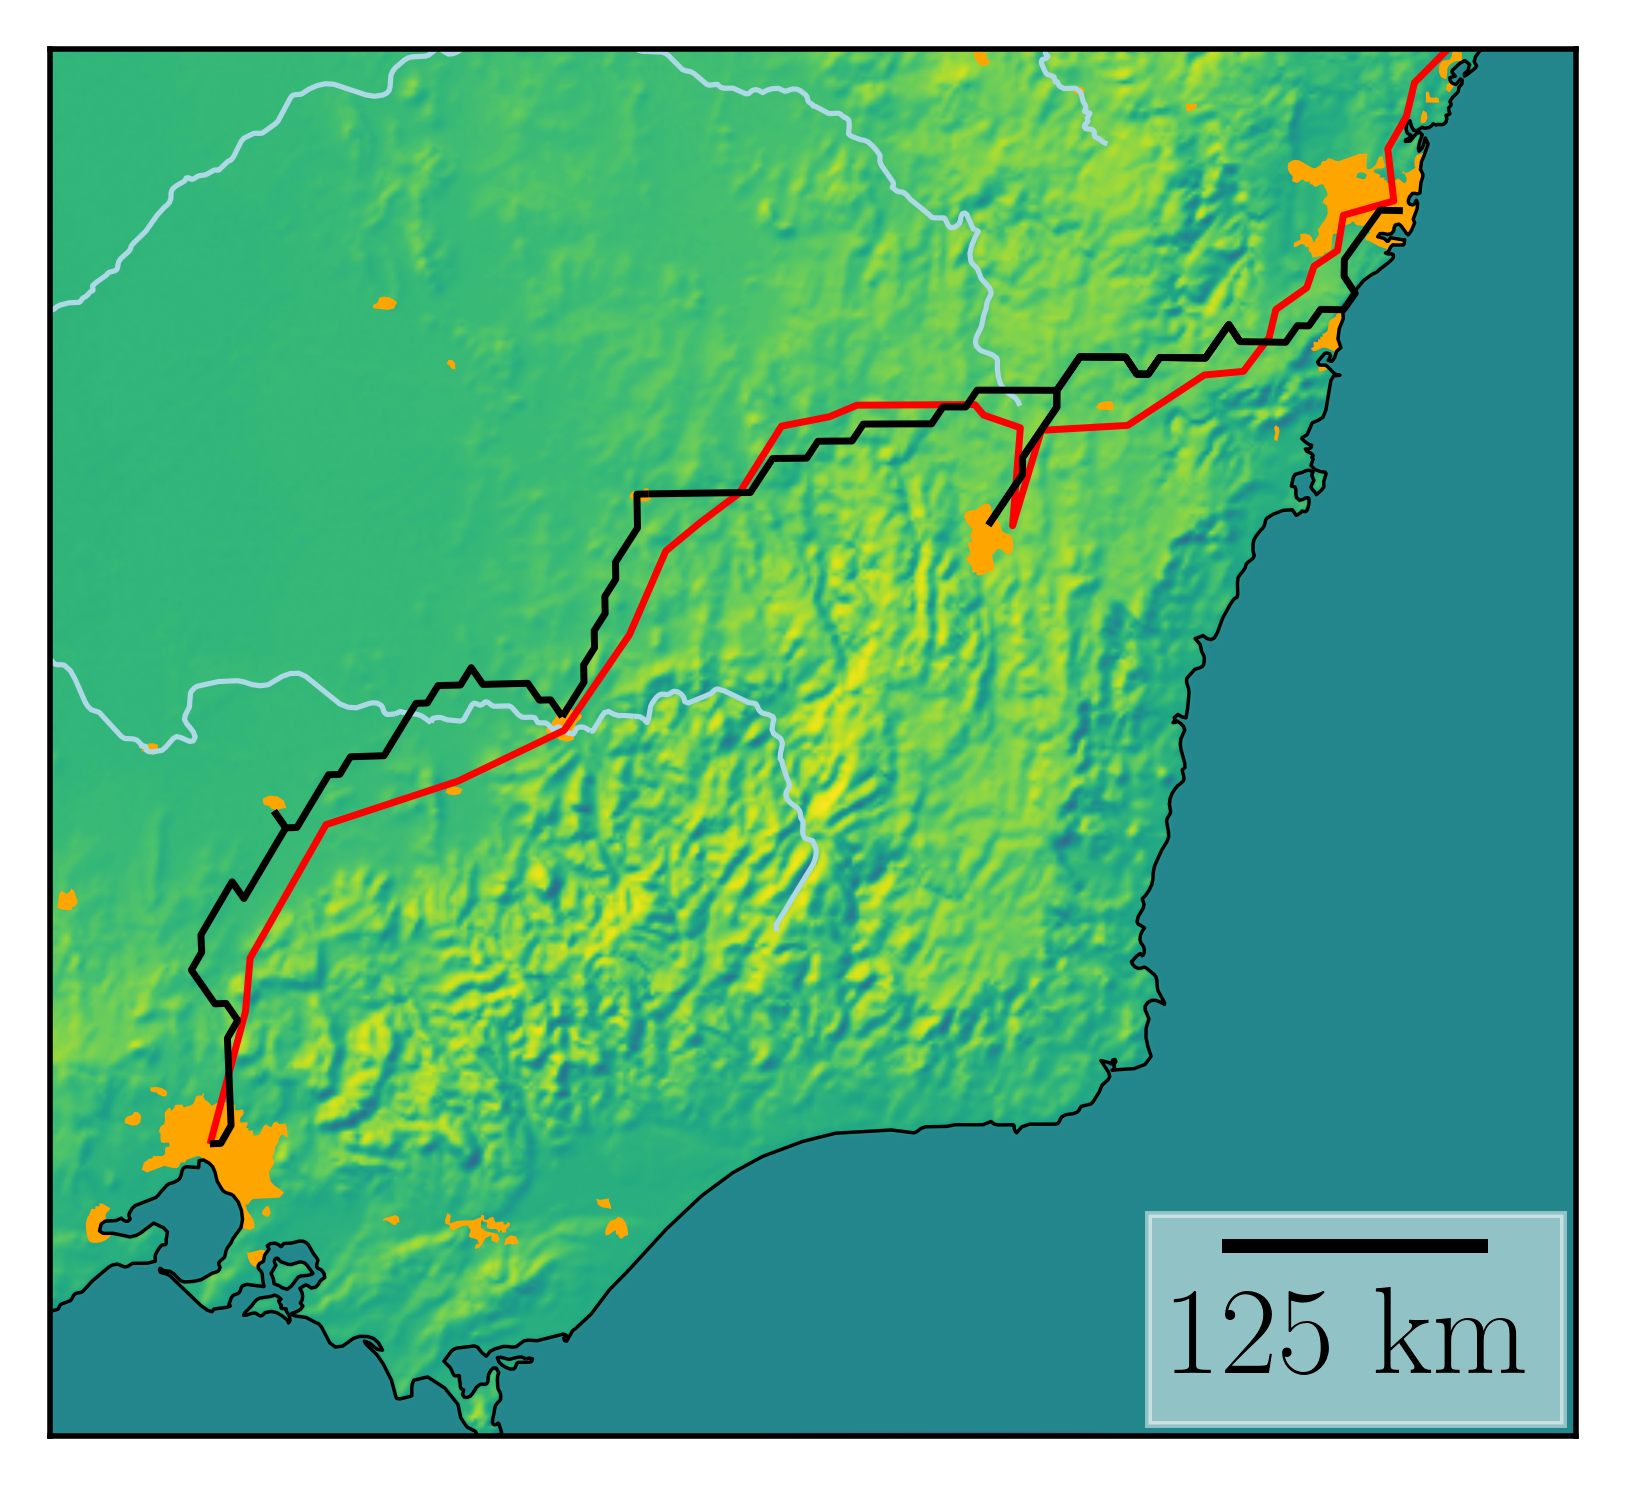
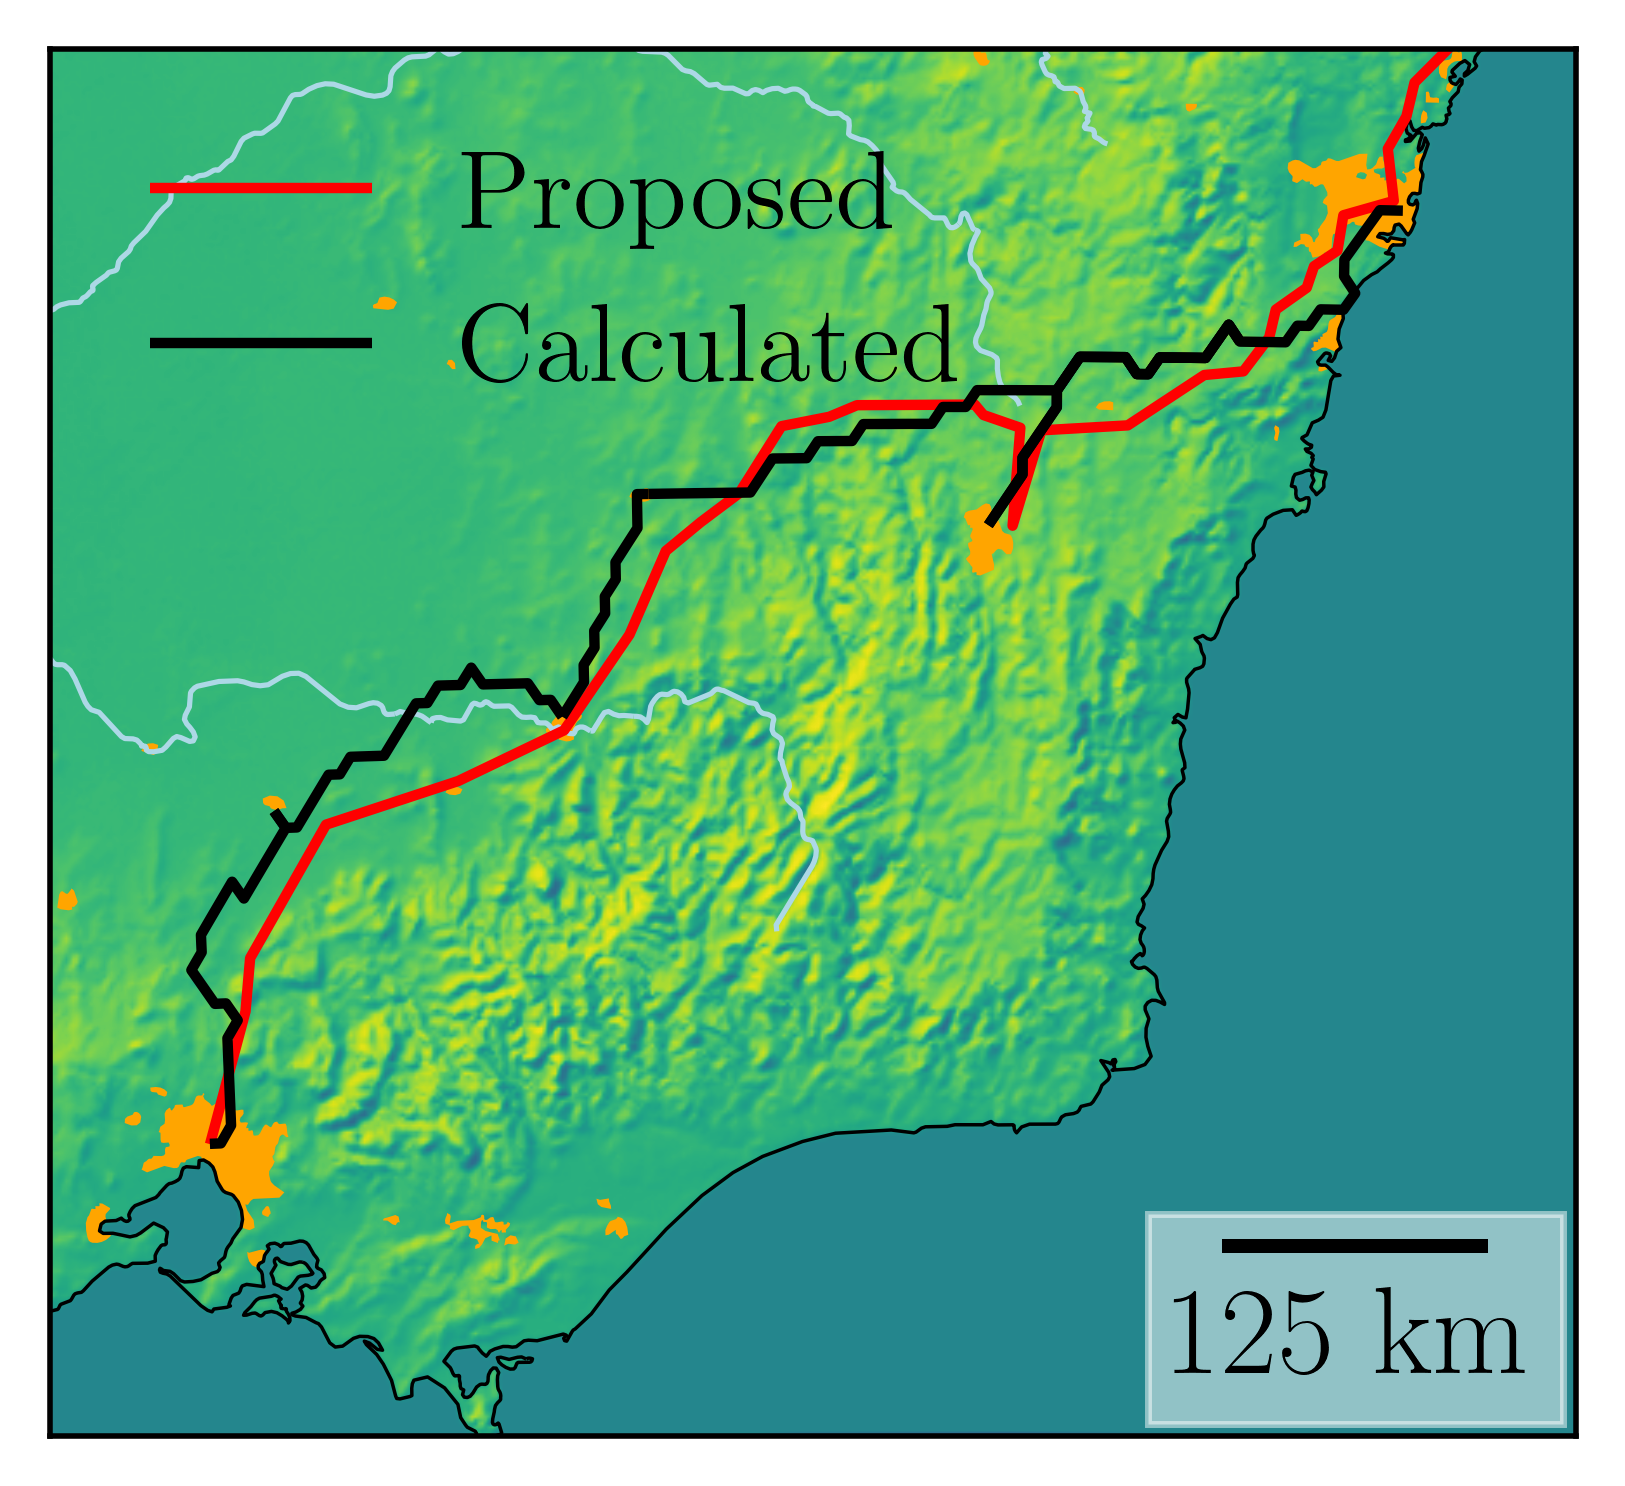
minor updates to figures

diff --git a/figures/benchmarking_data/adb_vs_flightradar.py b/figures/benchmarking_data/adb_vs_flightradar.py
@@ -55,6 +55,11 @@ df_fr = pd.read_excel(
 
 # DATA MANIPULATION #############################
 
+df_fr_pax_only = df_fr.copy()
+df_fr_pax_only['Flights'] = df_fr_pax_only['Flights'] - df_fr_pax_only['Flights'] * 0.1
+# https://www.eurocontrol.int/publication/eurocontrol-data-snapshot-all-cargo-flights-market-share
+# https://aviation.stackexchange.com/a/31988/
+
 # FIGURE ########################################
 
 # SETUP ######################
@@ -104,8 +109,8 @@ ax.set_ylabel("Global Air Traffic [\# of flights]")
 
 
 ax.plot(
-    df_air['DateTime'],
-    df_air['Flights'],
+    df_adb['DateTime'],
+    df_adb['Flights'],
     color = 'black',
     linestyle = '-',
     linewidth = 1,
@@ -117,7 +122,15 @@ ax.plot(
     color = 'blue',
     linestyle = '--',
     linewidth = 1,
-    label = 'FlightRadar24'
+    label = 'FlightRadar24 (pax + cargo + "some business")'
+)
+ax.plot(
+    df_fr_pax_only['DateTime'],
+    df_fr_pax_only['Flights'],
+    color = 'blue',
+    linestyle = '-.',
+    linewidth = 1,
+    label = 'FlightRadar24 (pax + "some business")'
 )
 
 # LEGEND ####################

diff --git a/figures/maps_case_study_routes/australia.py b/figures/maps_case_study_routes/australia.py
@@ -148,14 +148,16 @@ ax.set_yticklabels([])
 proposed_route.plot(
     ax = ax,
     color = 'red',
-    linewidth = 1,
+    linewidth = 1.5,
     alpha = 1,
+    label = 'Proposed'
 )
 calculated_route.plot(
     ax = ax,
     color = 'black',
-    linewidth = 1,
+    linewidth = 1.5,
     alpha = 1,
+    label = 'Calculated'
 )
 
 # MAP BACKGROUND #############
@@ -171,6 +173,12 @@ cx.add_basemap(
 # https://geopandas.org/en/stable/gallery/plotting_basemap_background.html#Adding-a-background-map-to-plots
 
 # LEGEND #####################
+
+ax.legend(
+    loc = 'upper left',
+    fontsize = 16,
+    frameon = False,
+)
 
 # https://github.com/ppinard/matplotlib-scalebar?tab=readme-ov-file#scalebar-arguments
 from matplotlib_scalebar.scalebar import ScaleBar

diff --git a/figures/maps_case_study_routes/nigeria.py b/figures/maps_case_study_routes/nigeria.py
@@ -59,7 +59,7 @@ calculated_route = calculated_route.to_crs(target_projection)
 # coordinated can best be selected at:
 # https://epsg.io/map
 lower_left = gpd.points_from_xy(
-    x = [2.6], # longitude
+    x = [3], # longitude
     y = [5.725311], # latitude
     crs='EPSG:4326' # = WGS 84
 ).to_crs(target_projection)
@@ -141,7 +141,7 @@ ax.set_yticklabels([])
 calculated_route.plot(
     ax = ax,
     color = 'red',
-    linewidth = 1,
+    linewidth = 1.5,
     alpha = 1,
     label = 'Calculated Route'
 )
